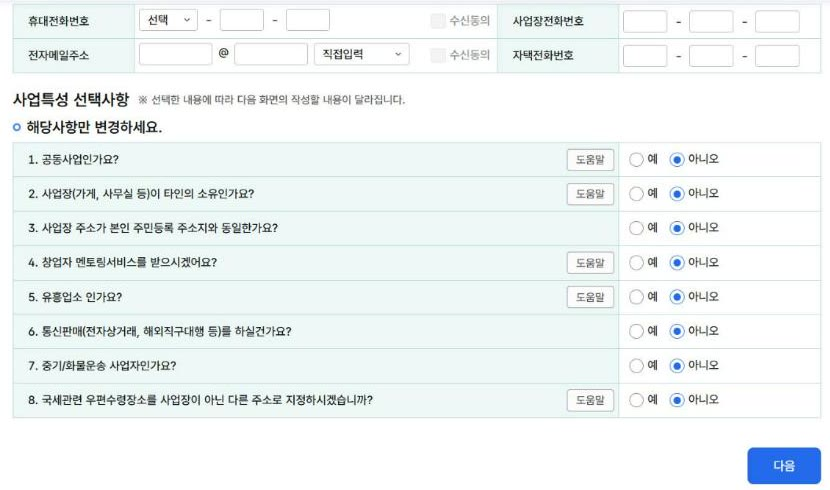
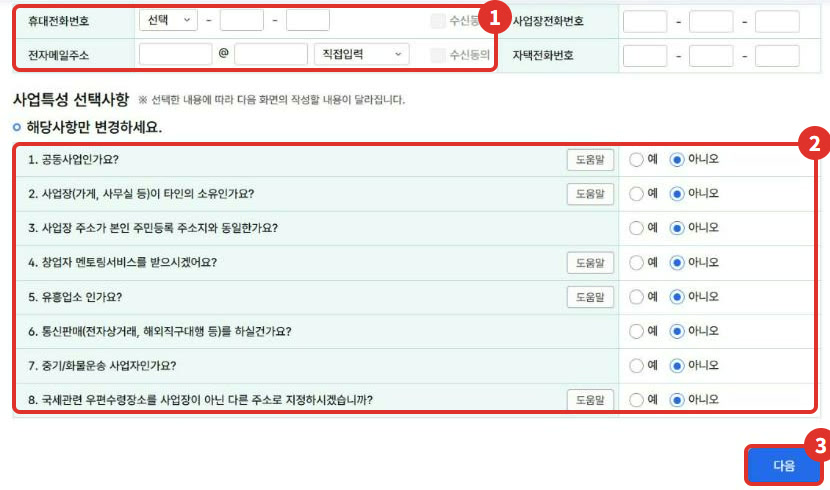
사업자등록 신청 글 캡처에 빨간 순서 표시

Changed region(s): [[0.0, 0.2449, 1.0, 1.0], [0.0, 0.0, 0.6325, 0.1531], [0.8735, 0.9184, 0.9036, 0.9796]]

diff --git a/_posts/2026-11-06-hometax-business-registration.md b/_posts/2026-11-06-hometax-business-registration.md
@@ -81,39 +81,39 @@ screen_checked: 2026-11
 
    ![홈택스 증명·등록·신청·사업장현황 메뉴에서 사업자등록 신청·정정·휴폐업, 개인 사업자등록 신청 위치](/assets/images/posts/hometax-business-registration/01-menu.jpg)
 
-3. **인적사항**(휴대전화·이메일)을 넣고, **사업특성 질문 8개**에 예·아니오로 답한 뒤 **다음**을 눌러요. 공동사업인지, 사업장이 남의 소유인지(임차), 주소가 주민등록 주소와 같은지 등을 물어요. 답에 따라 다음 화면이 달라져요.
+3. ① **인적사항**(휴대전화·이메일)을 넣고, ② **사업특성 질문 8개**에 예·아니오로 답한 뒤 ③ **다음**을 눌러요. 공동사업인지, 사업장이 남의 소유인지(임차), 주소가 주민등록 주소와 같은지 등을 물어요. 답에 따라 다음 화면이 달라져요.
 
    ![사업자 등록신청(개인) 첫 화면: 휴대전화·이메일 입력칸과 공동사업·사업장 소유·통신판매 등 사업특성 질문 8개, 다음 버튼](/assets/images/posts/hometax-business-registration/02-start.jpg)
 
-4. **사업장 정보**에서 상호명, 개업일자, 사업장 주소를 넣어요. 주소가 주민등록 주소와 같다고 답했으면 주소가 미리 채워져 있어요.
+4. **사업장 정보**에서 ① 상호명, ② 개업일자, ③ 사업장 주소를 넣어요. 주소가 주민등록 주소와 같다고 답했으면 주소가 미리 채워져 있어요.
 
    ![사업장 정보입력 화면: 상호명, 개업일자, 자기자금, 종업원수, 사업장 주소 입력칸 (주소는 가림)](/assets/images/posts/hometax-business-registration/03-biz-info.jpg)
 
-5. **업종 선택**에서 **업종 입력/수정**을 누르고, 키워드(예: 콘텐츠)로 검색해 업종코드를 골라요. 목록 오른쪽 **적용범위 및 기준**을 꼭 읽어 보세요.
+5. **업종 선택**에서 **업종 입력/수정**을 누르고, ① 키워드(예: 콘텐츠)를 넣고 ② **조회**해서 업종코드를 골라요. 목록 오른쪽 ③ **적용범위 및 기준**을 꼭 읽어 보세요.
 
    ![업종코드목록조회 창: 콘텐츠로 검색한 결과 642004, 921505, 940306, 940909 업종코드 목록](/assets/images/posts/hometax-business-registration/04-code-list.jpg)
 
-6. 업종을 고르면 **적용범위 및 기준**이 보여요. 운영자가 고른 921505(미디어콘텐츠창작업)는 "인적 또는 물적시설 없는 1인 미디어콘텐츠창작자는 940306 적용"이라고 적혀 있었어요.
+6. 업종을 고르면 ① **적용범위 및 기준**이 보여요. 확인했으면 ② **업종 등록**을 눌러요. 운영자가 고른 921505(미디어콘텐츠창작업)는 "인적 또는 물적시설 없는 1인 미디어콘텐츠창작자는 940306 적용"이라고 적혀 있었어요.
 
    ![업종 선택 창: 921505 정보통신업 미디어콘텐츠창작업과 적용범위 및 기준 안내문](/assets/images/posts/hometax-business-registration/05-code-scope.jpg)
 
-7. 업종이 사업 내용을 다 담지 못하면 **업종 추가설명**에 실제 하는 일을 적어요. **사업자 유형**(일반·간이 등)을 고르고 **저장 후 다음 이동**을 눌러요.
+7. 업종은 ① **업종 입력/수정**으로 고쳐요. 업종이 사업 내용을 다 담지 못하면 ② **업종 추가설명**에 실제 하는 일을 적어요. ③ **사업자 유형**(일반·간이 등)을 고르고 ④ **저장 후 다음 이동**을 눌러요.
 
    ![업종 목록, 업종 추가설명, 선택사항, 사업자 유형(일반·간이·면세) 선택과 저장 후 다음 이동 버튼](/assets/images/posts/hometax-business-registration/06-type.jpg)
 
-8. **제출서류 선택** 창이 **새 창(팝업)**으로 떠요. 임대차계약서 같은 서류가 있으면 **파일찾기**로 PDF나 이미지를 붙이고 **다음**을 눌러요.
+8. **제출서류 선택** 창이 **새 창(팝업)**으로 떠요. 임대차계약서 같은 서류가 있으면 ① **파일찾기**로 PDF나 이미지를 붙이고 ② **다음**을 눌러요.
 
    ![제출서류 선택 팝업 창: 첨부 가능한 파일 형식, 서식별 파일찾기 버튼, 다음 버튼](/assets/images/posts/hometax-business-registration/07-docs.png)
 
-9. 붙인 서류가 없으면 **증빙서류 첨부 안내** 창이 한 번 더 떠요. 해당 서류가 없으면 **다음**을 눌러요.
+9. 붙인 서류가 없으면 **증빙서류 첨부 안내** 창이 한 번 더 떠요. 해당 서류가 없으면 ① **다음**을 눌러요.
 
    ![증빙서류 첨부 안내 창: 사업장이 타인 소유면 임대차계약서, 인허가 사업이면 허가증, 공동사업이면 동업계약서 첨부 안내](/assets/images/posts/hometax-business-registration/08-no-attach.png)
 
-10. **최종확인** 창에서 유의사항을 읽고 **확인하였습니다**에 체크해요. **제출서류 확인하기**를 먼저 눌러야 **신청서 제출하기**가 눌려요.
+10. **최종확인** 창에서 유의사항을 읽고 ① **확인하였습니다**에 체크해요. ② **제출서류 확인하기**를 먼저 눌러야 ③ **신청서 제출하기**가 눌려요.
 
     ![최종확인 창: 사업자등록 신청 유의사항, 확인하였습니다 체크, 제출서류 확인하기와 신청서 제출하기 버튼](/assets/images/posts/hometax-business-registration/09-final.png)
 
-11. 제출하면 **민원신청 처리결과 조회**에 "접수완료"로 떠요. 처리가 끝나면 같은 메뉴에서 등록증을 출력해요.
+11. 제출하면 **민원신청 처리결과 조회**에 ① "접수완료"로 떠요. 처리가 끝나면 같은 메뉴에서 등록증을 출력해요.
 
     ![민원신청 처리결과 조회 화면: 사업자등록 신청(개인) 접수완료 (접수번호는 가림)](/assets/images/posts/hometax-business-registration/10-result.png)
 
